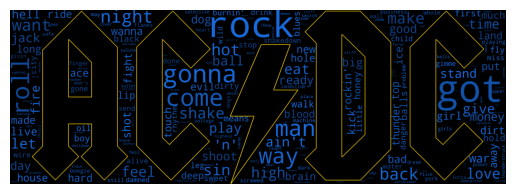
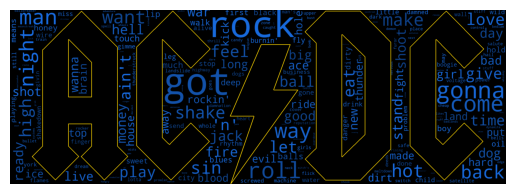
update wordclouds

diff --git a/analise_banda/cloud.py b/analise_banda/cloud.py
@@ -63,7 +63,8 @@ if __name__ == '__main__':
     musicas = pd.read_csv("dataset_acdc.csv", encoding= 'UTF-8')
     musicas = musicas[['Álbum','Música','Letra']]
     nome_musicas = np.unique(musicas['Música'])
-    cloud = cloud_acdc(ea.contar_palavras(nome_musicas), np.array(Image.open("acdc_logo2.png")),
+    letras = np.unique(musicas['Letra'])
+    cloud = cloud_acdc(ea.contar_palavras(letras), np.array(Image.open("acdc_logo2.png")),
                     'black', 5,'white',5, 80,
                     clareza_min_letras=40, clareza_max_letras= 50)
     plt.figure()
@@ -71,7 +72,6 @@ if __name__ == '__main__':
     plt.axis("off")
 
     plt.savefig(f"img/questao_2.4/tagcloud_letras.png",bbox_inches="tight")
-    letras = np.unique(musicas['Letra'])
     cloud = cloud_acdc(ea.frequencia_titulo(' '.join(nome_musicas),' '.join(letras)),
                     np.array(Image.open("logo_ACDC.png")))
     plt.figure()
